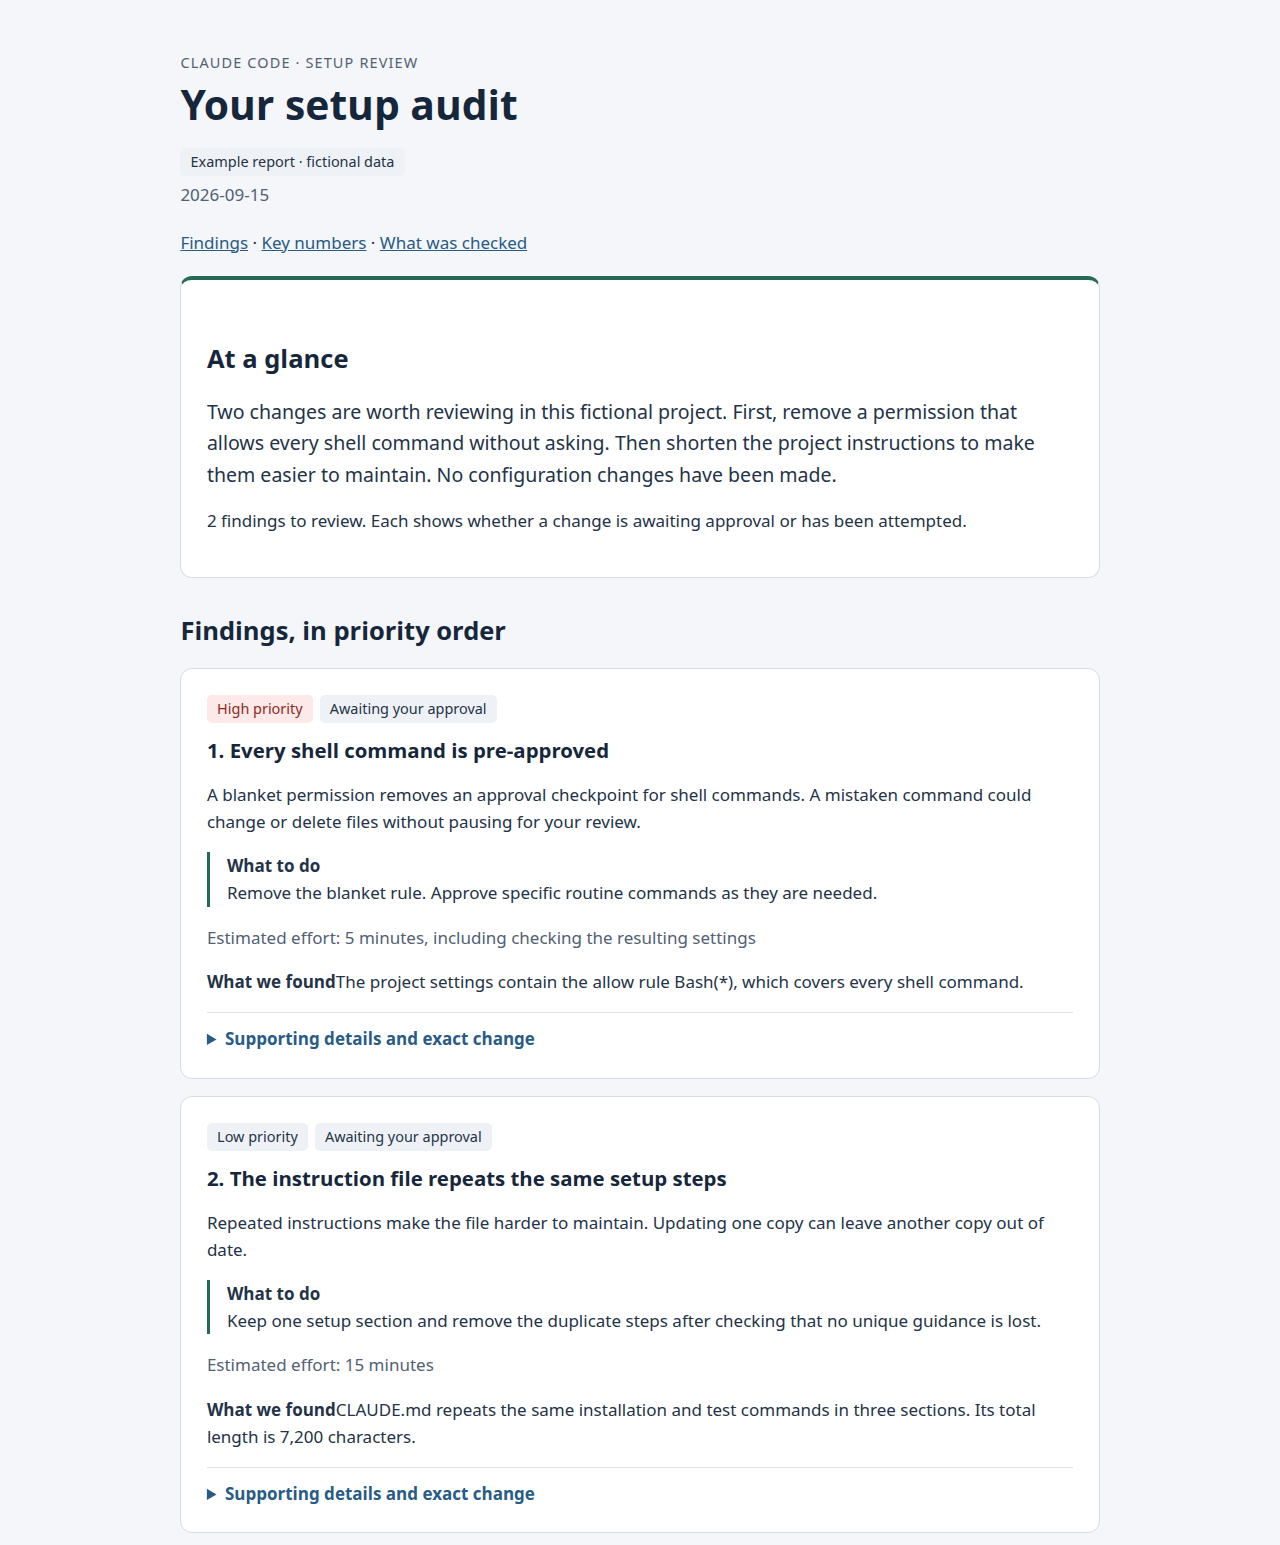
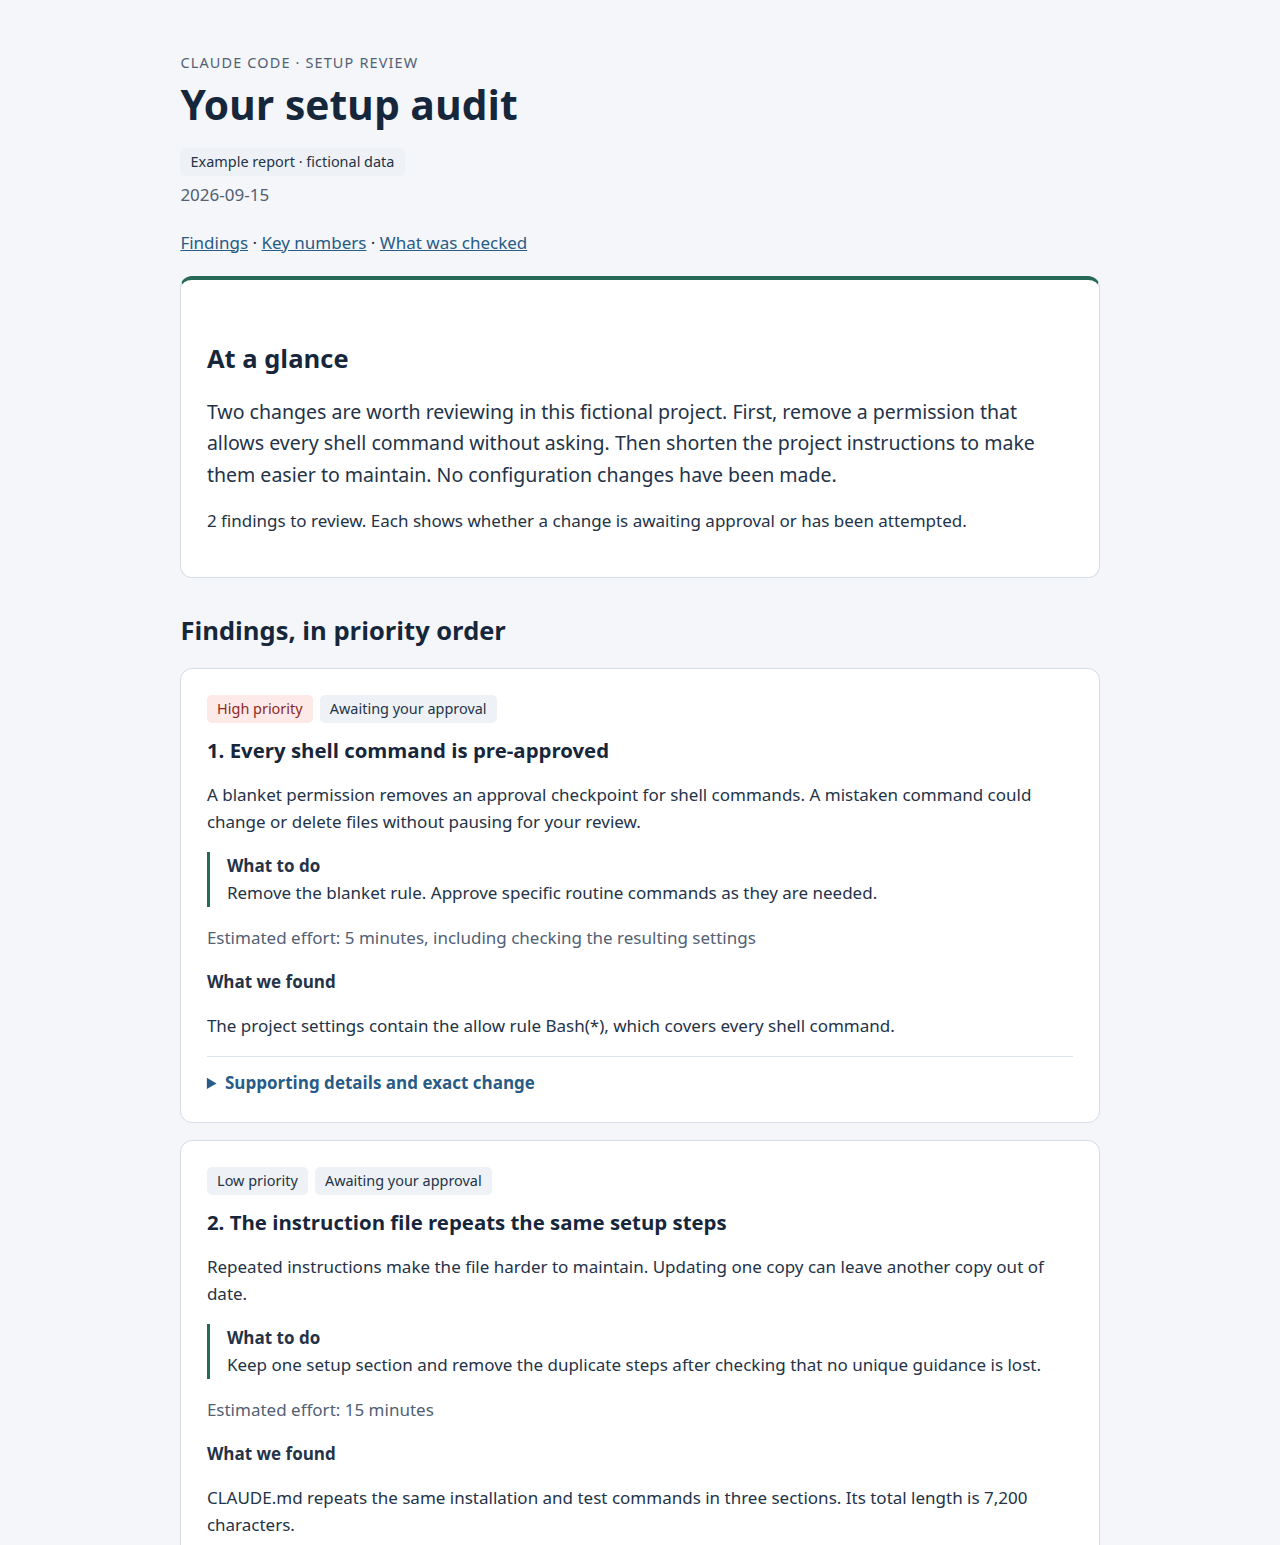
Render report field labels on their own line; add shell uninstall form
Assisted-by: Claude:claude-opus-5-5

Changed region(s): [[0.1562, 0.6214, 0.8125, 0.9942]]

diff --git a/plugins/setup-audit/skills/setup-audit/scripts/render_report.py b/plugins/setup-audit/skills/setup-audit/scripts/render_report.py
@@ -43,6 +43,11 @@ def label(value):
     return str(value).replace('_', ' ').capitalize()
 
 
+def field_label(text):
+    """A block-level label, so it never runs into the value that follows it."""
+    return f'<p class="field-label"><strong>{escape(text)}</strong></p>'
+
+
 def disclosure(title, value):
     return f'<details><summary>{escape(title)}</summary>{display(value)}</details>'
 
@@ -132,7 +137,7 @@ def render(report):
             if finding.get('effort'):
                 parts.append('<p class="muted">Estimated effort: ' + escape(finding['effort']) + '</p>')
             if finding.get('evidence'):
-                parts.append('<strong>What we found</strong>' + display(finding['evidence']))
+                parts.append(field_label('What we found') + display(finding['evidence']))
             technical = {k: v for k, v in finding.items() if k not in ('title', 'why', 'effort', 'evidence')}
             parts.append(disclosure('Supporting details and exact change', technical))
             parts.append('</article>')
@@ -152,7 +157,7 @@ def render(report):
             state = action.get('status', 'unknown')
             parts.append(paragraph(ACTION_LABELS.get(state, label(state))))
             if action.get('verification'):
-                parts.append('<strong>Verification</strong>' + display(action['verification']))
+                parts.append(field_label('Verification') + display(action['verification']))
             parts.append(disclosure('Files, backups and recovery details', action) + '</article>')
         parts.append('</section>')
     metrics = report.get('metrics')
@@ -197,9 +202,9 @@ def render(report):
             if coverage.get('summary'):
                 parts.append(paragraph(coverage['summary']))
             if coverage.get('projects_collected'):
-                parts.append('<strong>Projects included</strong>' + display(coverage['projects_collected']))
+                parts.append(field_label('Projects included') + display(coverage['projects_collected']))
             if coverage.get('limitations'):
-                parts.append('<strong>Limits to this review</strong>' + display(coverage['limitations']))
+                parts.append(field_label('Limits to this review') + display(coverage['limitations']))
         parts.append(disclosure('Collection details', coverage))
     if report.get('caveats'):
         parts.append('<h3>Not checked or uncertain</h3>' + display(report['caveats']))

diff --git a/tests/test_render_report.py b/tests/test_render_report.py
@@ -25,7 +25,49 @@ class Elements(HTMLParser):
         self.elements.append((tag, dict(attrs)))
 
 
+class InlineAfterLabel(HTMLParser):
+    """Collect <strong> labels that are directly followed by inline content."""
+    INLINE = {'span', 'strong', 'em', 'a', 'code', 'b', 'i'}
+
+    def __init__(self, text):
+        super().__init__()
+        self.after_strong = False
+        self.text = ''
+        self.bad = []
+        self.feed(text)
+
+    def handle_starttag(self, tag, attrs):
+        if self.after_strong and tag in self.INLINE:
+            self.bad.append(self.text)
+        self.after_strong = False
+        if tag == 'strong':
+            self.text = ''
+
+    def handle_endtag(self, tag):
+        self.after_strong = tag == 'strong'
+
+    def handle_data(self, data):
+        if self.after_strong and data.strip():
+            self.bad.append(self.text)
+        if not self.after_strong:
+            self.text += data
+        if data.strip():
+            self.after_strong = False
+
+
 class ReportTests(unittest.TestCase):
+    def test_field_labels_are_not_followed_by_inline_text(self):
+        report = self.report()
+        report['findings'][1].update(evidence='The rule allows everything.',
+                                    why='Why.', fix='Fix it.', effort='5 minutes')
+        report['coverage'].update(projects_collected=['one', 'two'],
+                                  limitations=['No transcripts'])
+        output = render_report.render(report)
+        for text in ('What we found', 'Verification', 'Projects included',
+                     'Limits to this review'):
+            self.assertIn(text, output)
+        self.assertEqual(InlineAfterLabel(output).bad, [])
+
     def report(self):
         return {'version': 1, 'generated': '2026-09-15',
                 'profile': {'scope': 'project'},

diff --git a/docs/development.md b/docs/development.md
@@ -47,7 +47,7 @@ Version-sensitive commands checked 2026-09-16 against the installed CLI help and
 
 CI enforces a coverage floor of 88% over the bundled scripts (`.coveragerc`). The floor is not
 a target; the README badge states the same number, so raise both in one commit. Measured
-2026-09-28 with coverage 7.16.2: 88.49% (2,059 statements, 237 missed). `patch = subprocess`
+2026-09-28 with coverage 7.16.2: 88.65% (2,061 statements, 234 missed). `patch = subprocess`
 needs coverage 7.10 or newer; it counts scripts that tests run as subprocesses. Without it the
 figure is about 83%. To reproduce locally:
 

diff --git a/CHANGELOG.md b/CHANGELOG.md
@@ -15,6 +15,8 @@ All notable changes to this project are documented here. The format follows
 
 ### Fixed
 
+- The HTML report no longer runs field labels into their text ("What we foundThe project...").
+  Labels for evidence, verification, projects included and limits now render as their own line.
 - `app_caching`'s collector no longer counts a prose mention of `cache_control` (e.g. a docstring
   explaining why caching does NOT apply) as an implementation. Found by auditing sibling repos
   against real code: it inflated the cached-file count via a file that only narrates a caching

diff --git a/README.md b/README.md
@@ -67,6 +67,9 @@ number is bumped in a release. New commits alone do not change what you get.
 /plugin marketplace remove claude-setup-audit
 ```
 
+From a shell, use `claude plugin uninstall setup-audit@claude-setup-audit` and
+`claude plugin marketplace remove claude-setup-audit`.
+
 Removing the marketplace also uninstalls every plugin installed from it. The plugin leaves its
 output behind: reports in `~/.claude/audits/` and backups of any config it edited in
 `~/.claude/backups/` (see [What it reads, writes and sends](#what-it-reads-writes-and-sends)).
